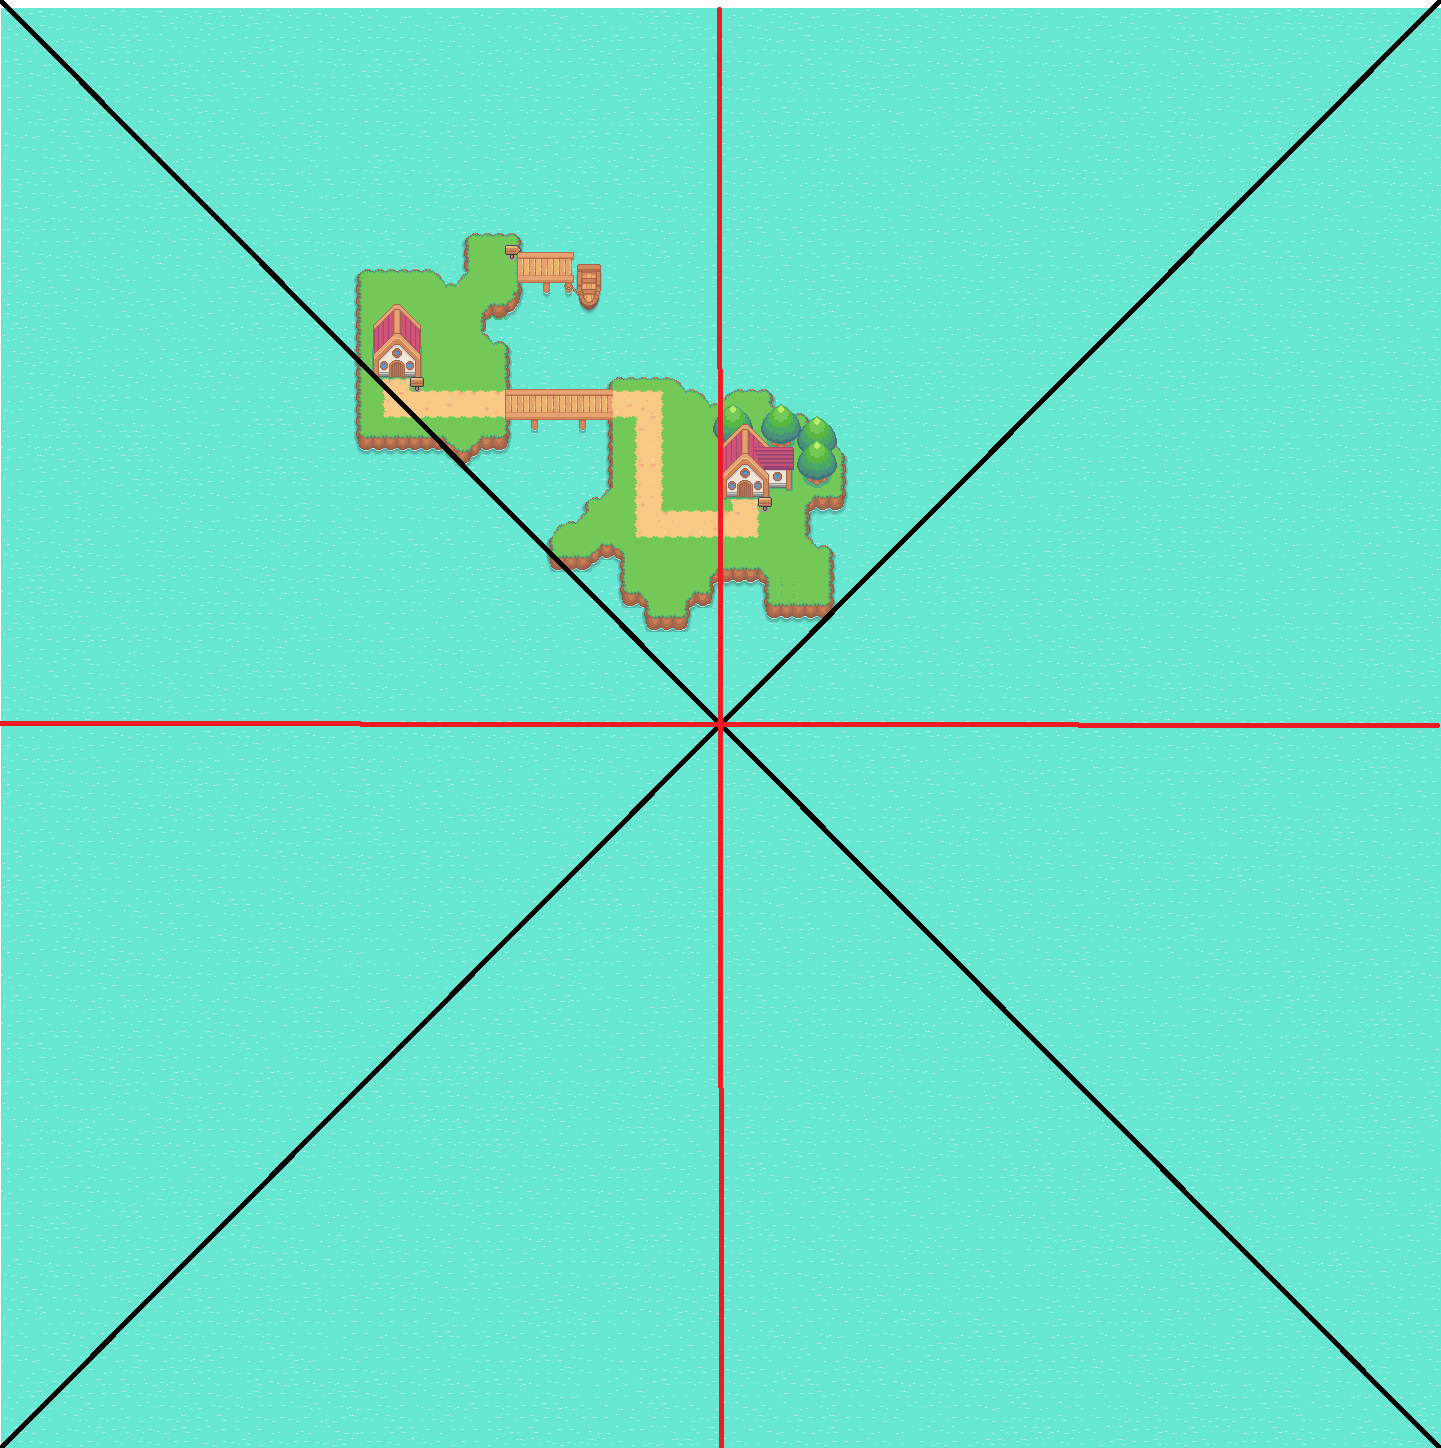
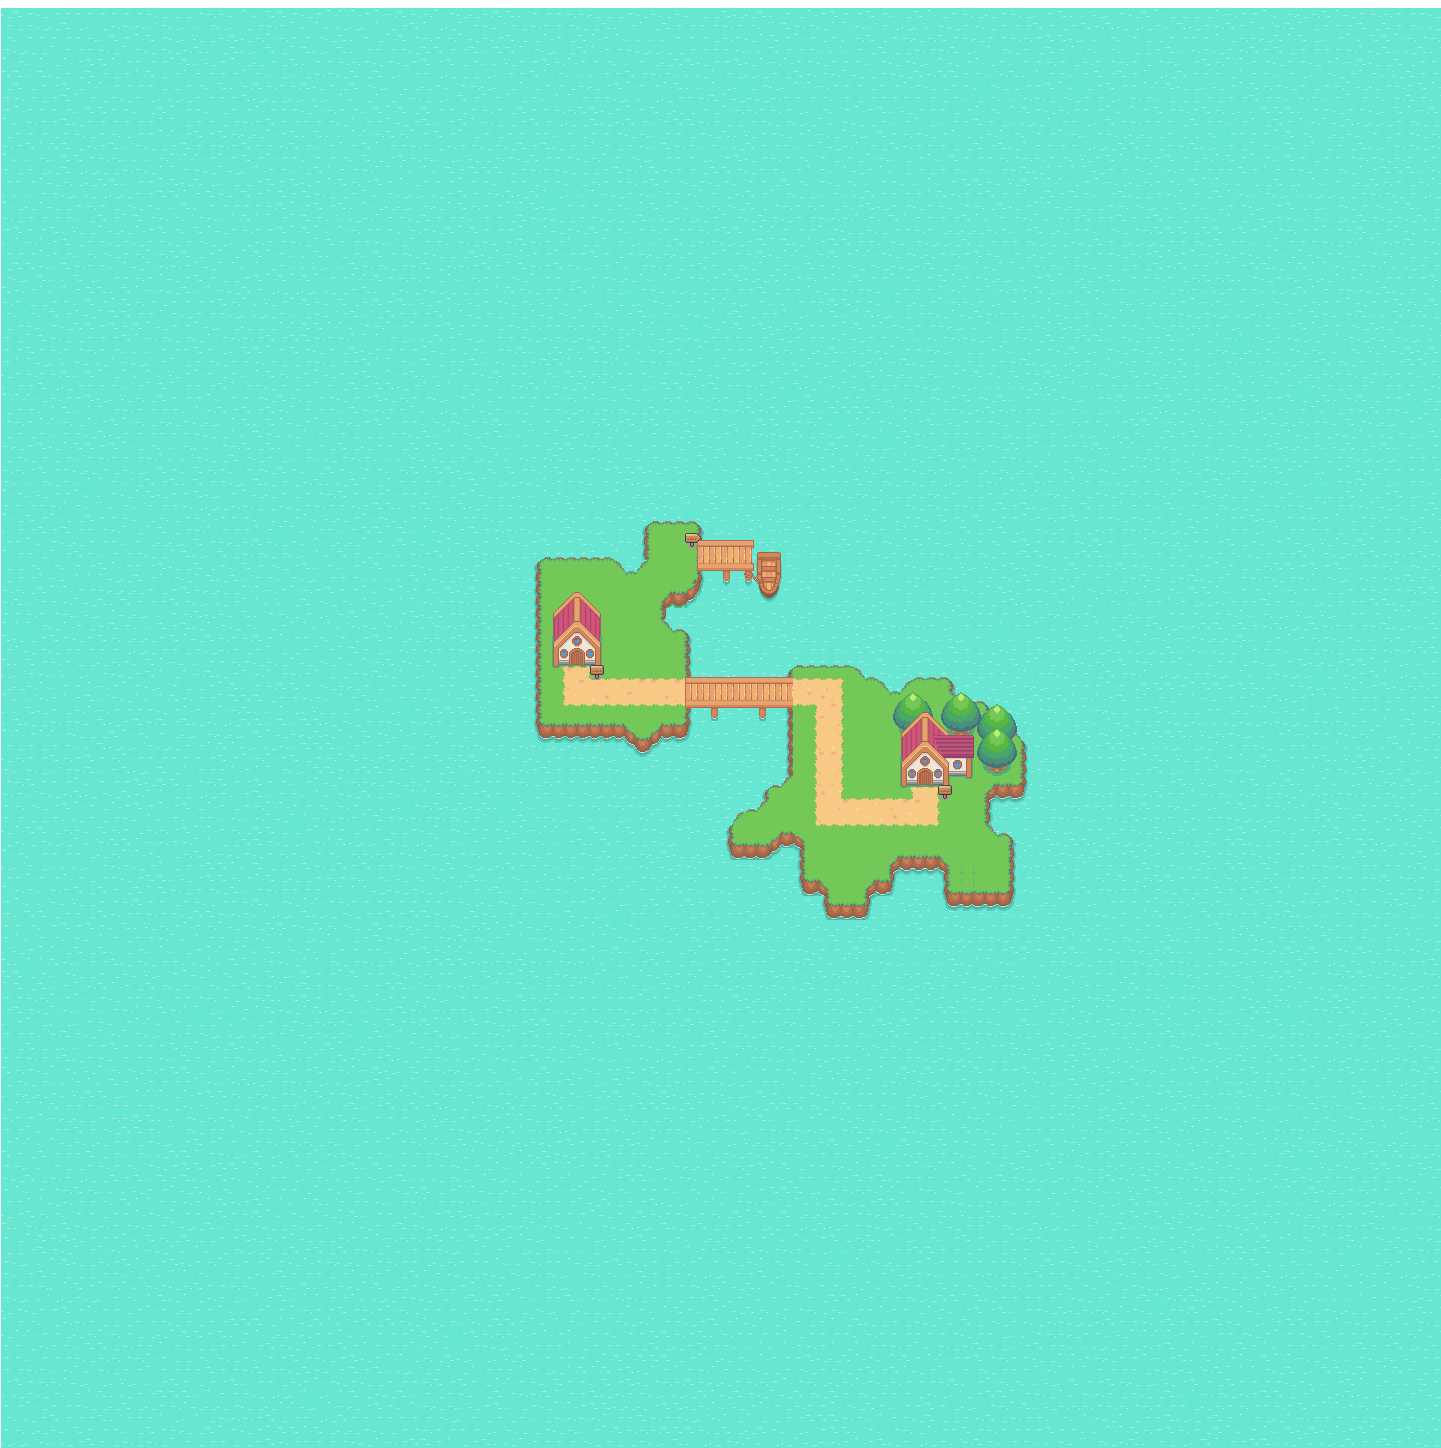
feat(mapEngine): fix zoom and resize issues

diff --git a/src/App.scss b/src/App.scss
@@ -1,20 +1,27 @@
 .game-container {
-  transform: scale(3);
+  position: absolute;
   width: 100vw;
   height: 100vh;
+  overflow: hidden;
 }
+
+$posX: 286px; // 286px
+$posY: 525px; // 525px
+$topView: calc( 50% - $posY);
+$leftView: calc( 50% - $posX);
 
 .map {
   position: absolute;
-  width: 100%;
-  height: 100%;
-  top: 357px;
-  left: 367px;
-  background: url('img/world-large.png') no-repeat center center fixed;
+  width: 1441px;
+  height: 1448px;
+  top: $topView;
+  left: $leftView;
+  transform: scale(3);
 }
 
 .hero {
+  transform: scale(3);
   position: absolute;
-  top: calc(100vh / 2);
-  left: calc(100vw / 2);
+  top: calc(100% / 2);
+  left: calc(100% / 2);
 }

diff --git a/src/App.tsx b/src/App.tsx
@@ -5,7 +5,9 @@ import WorldMap from './img/world.png'
 function App() {
   return (
     <div className='game-container'>
-      <div className="map"></div>
+      <div className="map">
+        <img src={ WorldMap } />
+      </div>
       <Hero></Hero>
     </div>
   );

diff --git a/src/components/Hero.css b/src/components/Hero.css
@@ -5,7 +5,6 @@
     margin-left: -6px;
     background: url('/src/img/hero.png') no-repeat 0 0%;
     animation: idle-down 2s steps(13) infinite;
-    transform: scale(0.8);
 }
 
 .hero.idle-down {
